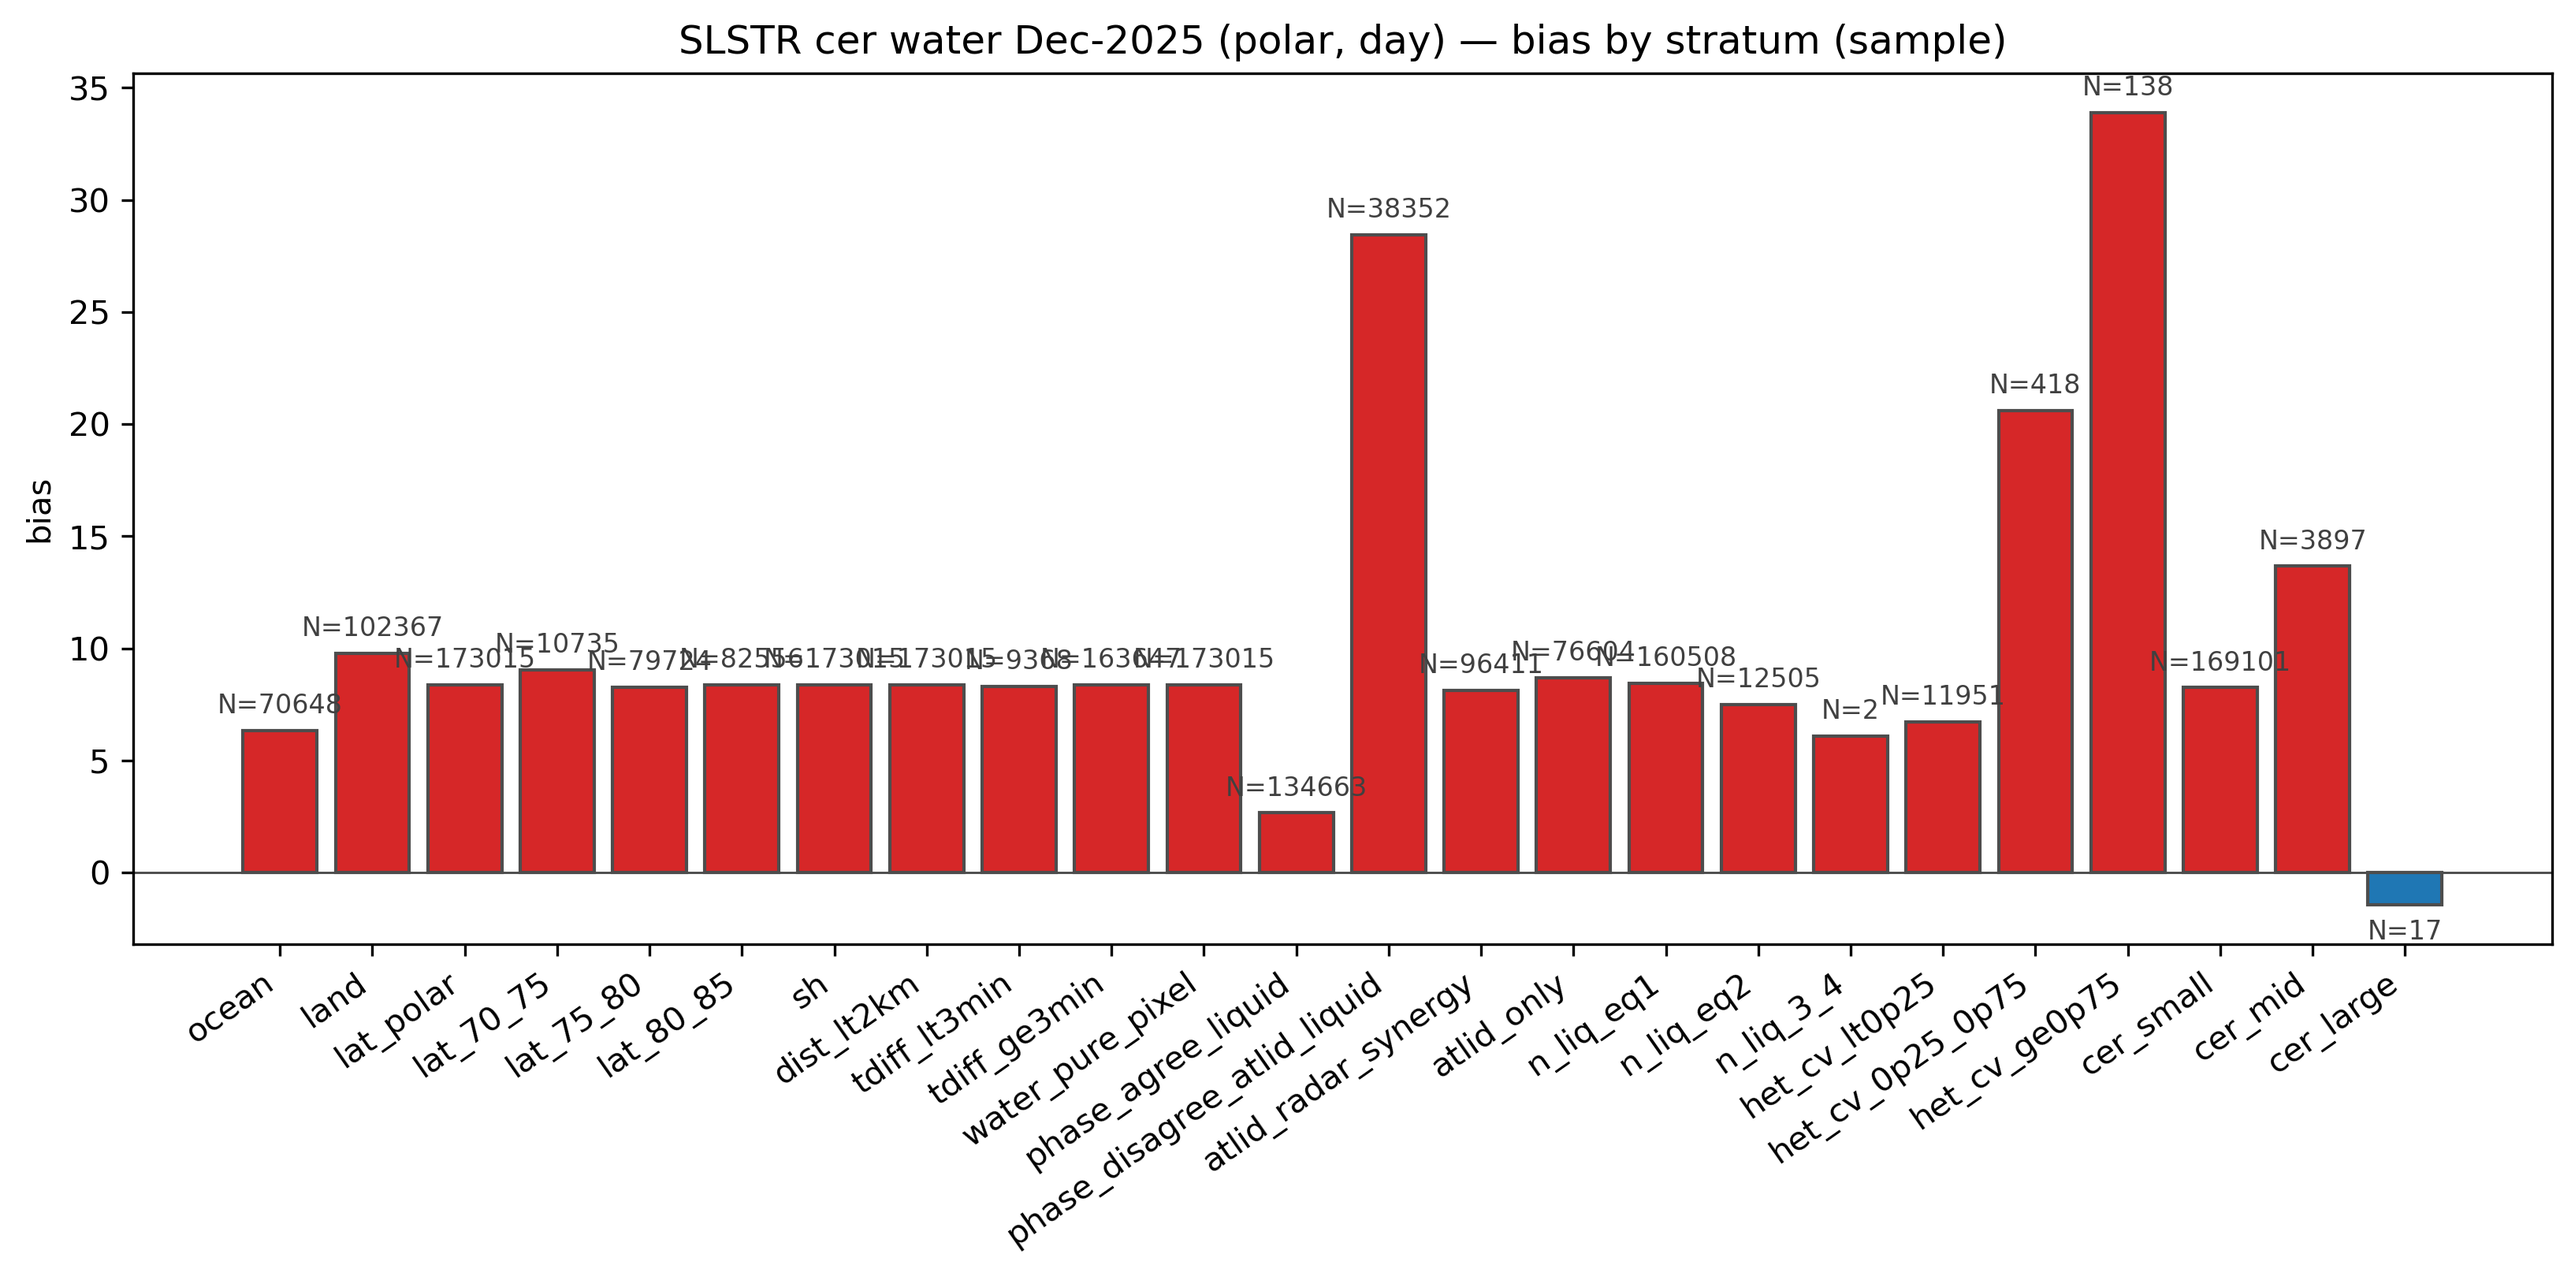
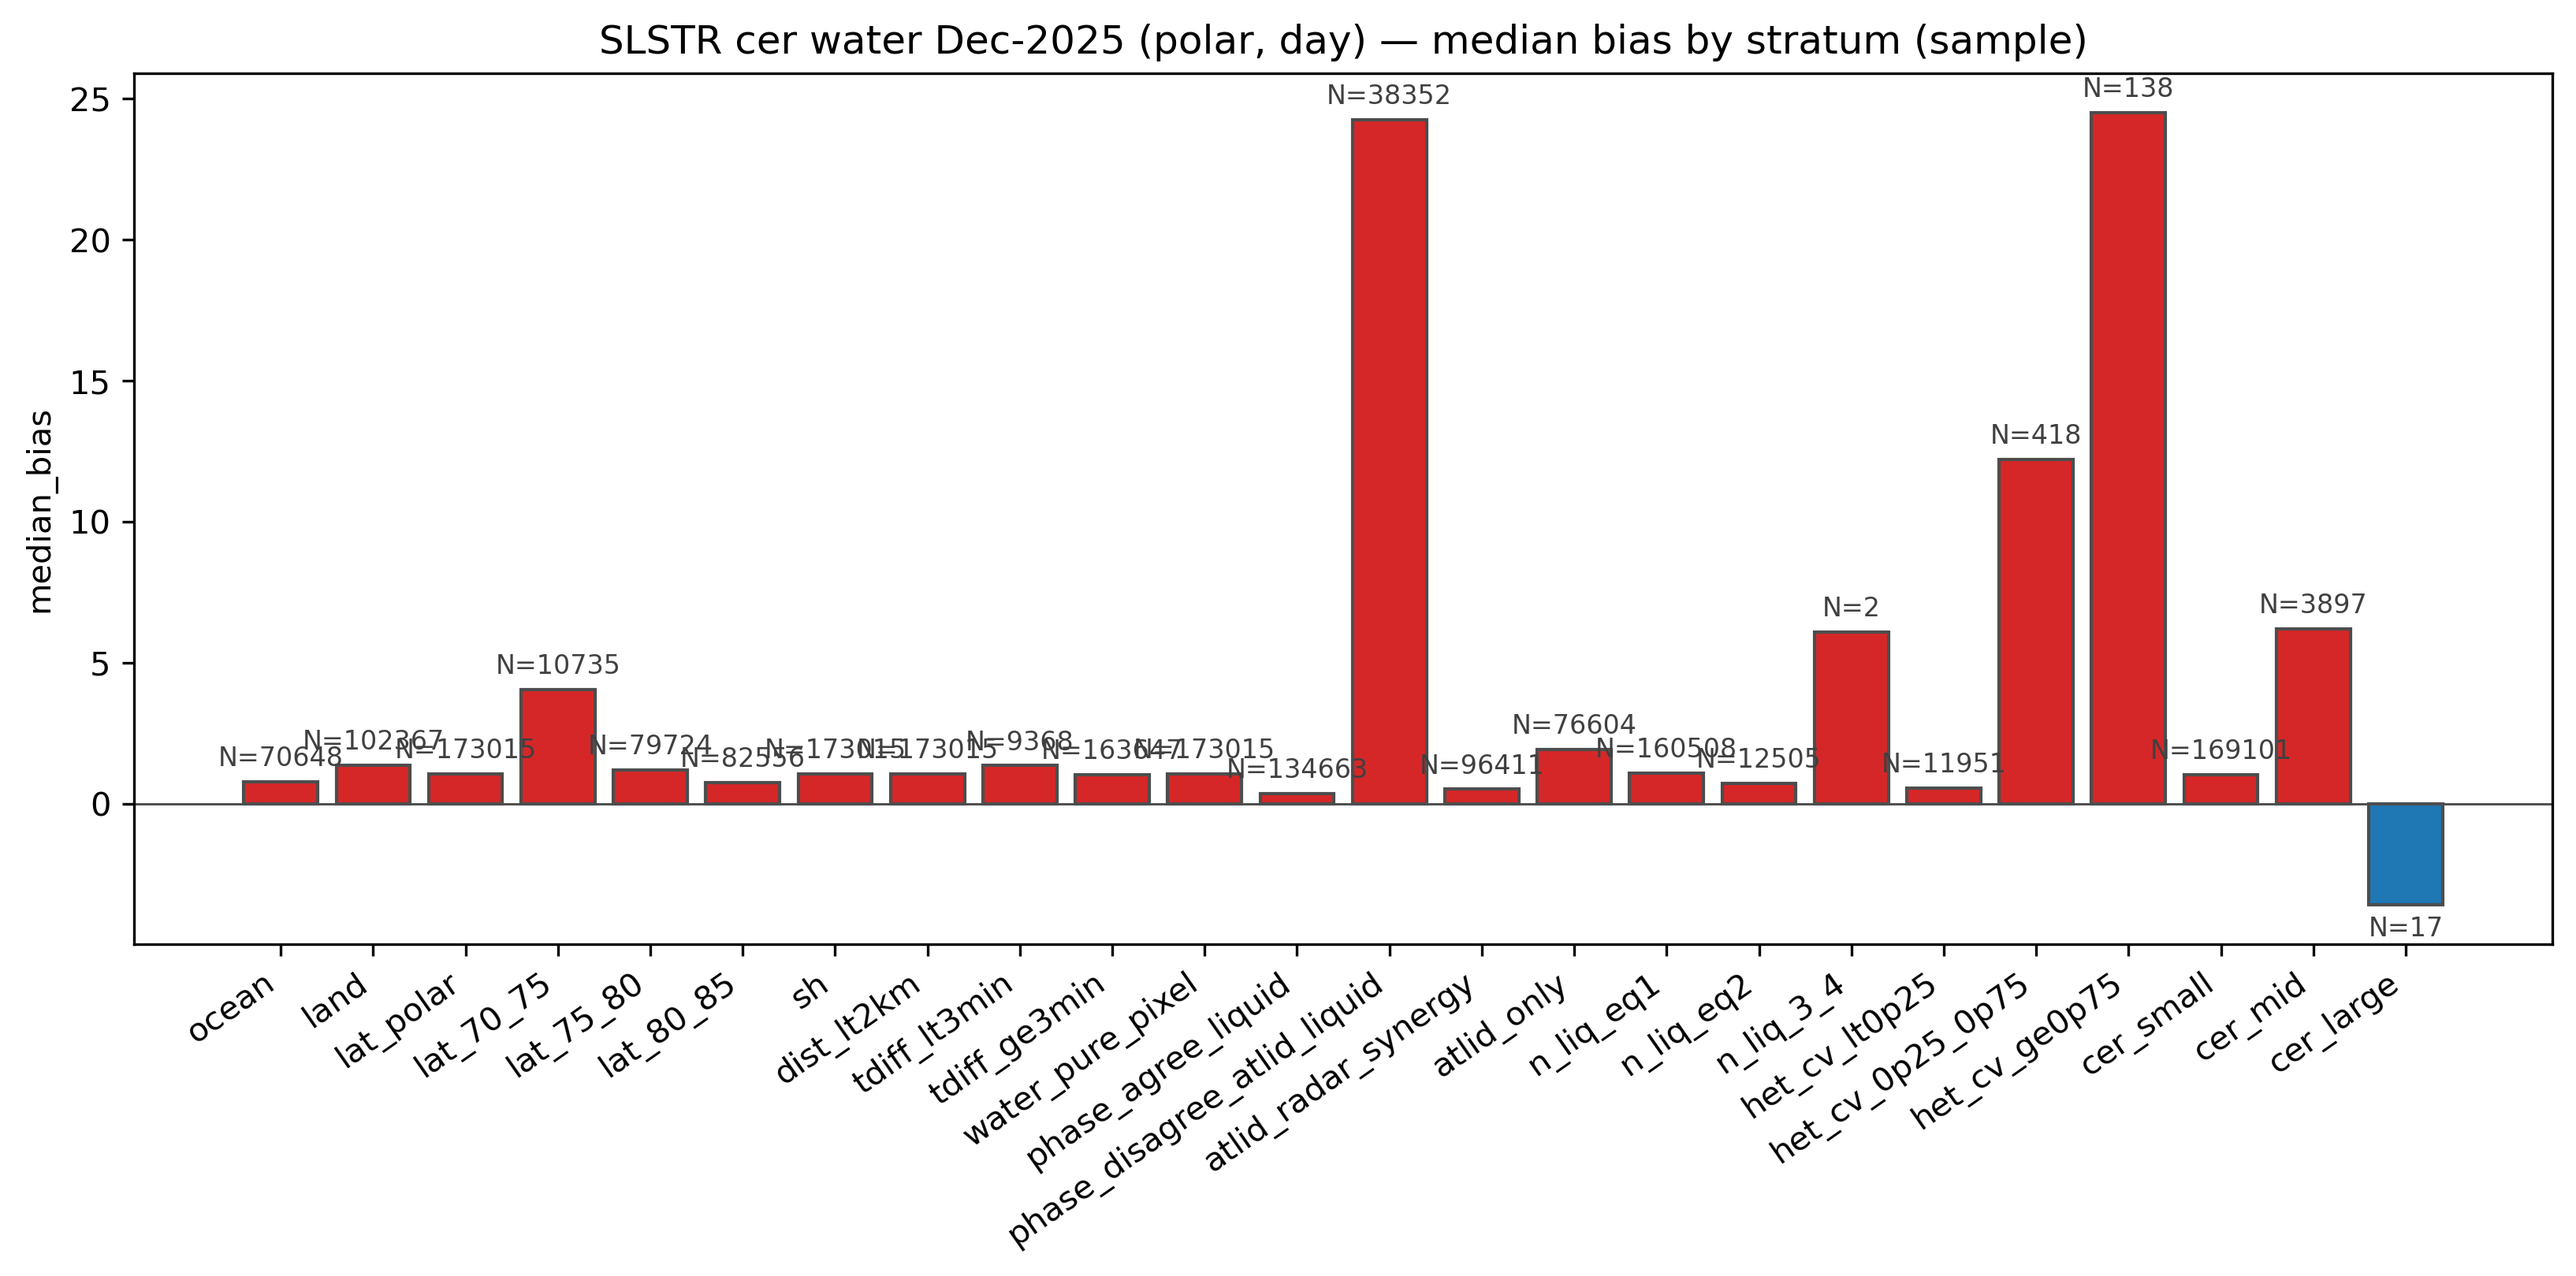
slstr(figures): COT/CER by-stratum bar charts use median bias; SEVIRI caveat
Switch the cot-water/cer/ice bias-by-stratum bar charts to median_bias for
consistency with the median-headline reporting. Added a metric caveat to the
SEVIRI COT report flagging its mean-bias numbers as skew-prone (median now
available via re-run) -- full SEVIRI median migration pending.

diff --git a/validation/cli.py b/validation/cli.py
@@ -779,11 +779,11 @@ def cmd_figures(args: argparse.Namespace) -> int:
 
     sample_stats = stratified_stats(base, "cot_atlid", "cot_orac")
     pix_stats = stratified_stats(pix, "cot_atlid", "cot_orac")
-    bias_by_stratum(sample_stats, metric="bias",
-                    title=f"{suptitle} — bias by stratum (sample)",
+    bias_by_stratum(sample_stats, metric="median_bias",
+                    title=f"{suptitle} — median bias by stratum (sample)",
                     out=out_dir / "cot_bias_by_stratum_sample.png")
-    bias_by_stratum(pix_stats, metric="bias",
-                    title=f"{suptitle} — bias by stratum (pixel)",
+    bias_by_stratum(pix_stats, metric="median_bias",
+                    title=f"{suptitle} — median bias by stratum (pixel)",
                     out=out_dir / "cot_bias_by_stratum_pixel.png")
     bias_by_stratum(pix_stats, metric="r",
                     title=f"{suptitle} — R by stratum (pixel)",
@@ -1117,12 +1117,12 @@ def _cmd_water_figures(args, *, mode, var_atlid, var_orac, strata_fn, report_fn,
     sample_stats = stratified_stats(sample, var_atlid, var_orac, strata=strata_fn())
     pixel_stats = stratified_stats(pixel, var_atlid, var_orac, strata=strata_fn())
     water_cloud_figures.bias_by_stratum(
-        sample_stats, metric="bias",
-        title=f"{suptitle} — bias by stratum (sample)",
+        sample_stats, metric="median_bias",
+        title=f"{suptitle} — median bias by stratum (sample)",
         out=out_dir / f"{prefix}_bias_by_stratum_sample.png")
     water_cloud_figures.bias_by_stratum(
-        pixel_stats, metric="bias",
-        title=f"{suptitle} — bias by stratum (pixel)",
+        pixel_stats, metric="median_bias",
+        title=f"{suptitle} — median bias by stratum (pixel)",
         out=out_dir / f"{prefix}_bias_by_stratum_pixel.png")
     water_cloud_figures.bias_by_stratum(
         pixel_stats, metric="r",

diff --git a/docs/reports/cot_validation_2026-02.md b/docs/reports/cot_validation_2026-02.md
@@ -10,6 +10,15 @@ references:
   the second section, kept compact because the lidar reference has known
   limitations for thick ice cloud (laser attenuation).
 
+> **⚠ Metric caveat (2026-07):** the bias numbers below are **mean** bias in
+> linear τ. COT is heavy-tailed, so the mean is dominated by a small high-τ tail
+> and can misrepresent (even sign-flip relative to) the typical pixel — as shown
+> in the SLSTR analysis (`docs/reports/slstr_cot_water_2025-12.md §3`). The
+> statistics engine now also emits **`median_bias`** (with 95% CIs); the median is
+> the recommended headline for COT/CER. Re-running `cot-water-evaluate` /
+> `cot-water-figures` here would surface the median for this dataset too — a
+> pending consistency update. Read the mean biases below with that caveat.
+
 ## 1. Water-cloud COT vs ACM-CAP
 
 ### 1.1 Reference data
